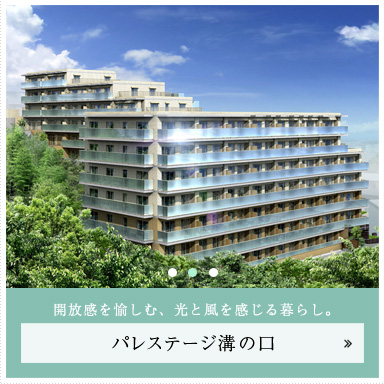
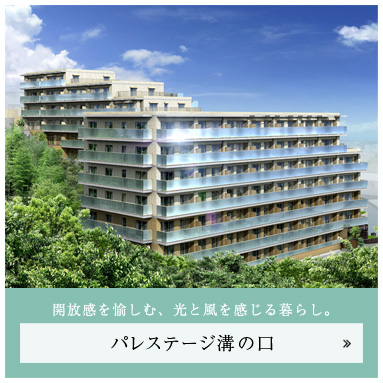
トップページのギャラリー修正。
ギャラリーのindex(丸ボタン)の位置をギャラリー下部から内部に変更。

diff --git a/bukken-site/app/webroot/less/custom/elements/top/gallery.less b/bukken-site/app/webroot/less/custom/elements/top/gallery.less
@@ -5,12 +5,23 @@
 	.gallery-of-top {
 		width: 384px;
 		height: 384px;
-		margin: 0 0 30px 16px;
+		margin: 0 0 17px 16px;
 		border: none;
 		float: left;
 
 		.flex-control-nav {
-			bottom: -30px;
+			bottom: 100px;
+
+			a {
+				background: #fff;
+
+				&.flex-active {
+					background: #b1f2d0;
+				}
+				&:hover {
+					background: #b1f2d0;
+				}
+			}
 		}
 
 		.flex-direction-nav {

diff --git a/bukken-site/app/webroot/less/custom/contents/top/top.less b/bukken-site/app/webroot/less/custom/contents/top/top.less
@@ -296,7 +296,7 @@ body#indexInIndex{
 
 // for IE7
 *+html body#indexInIndex .cc_contentGroup{
-	margin-bottom: 20px;
+	margin-bottom: 10px;
 }
 // ,
 // #ci_main
